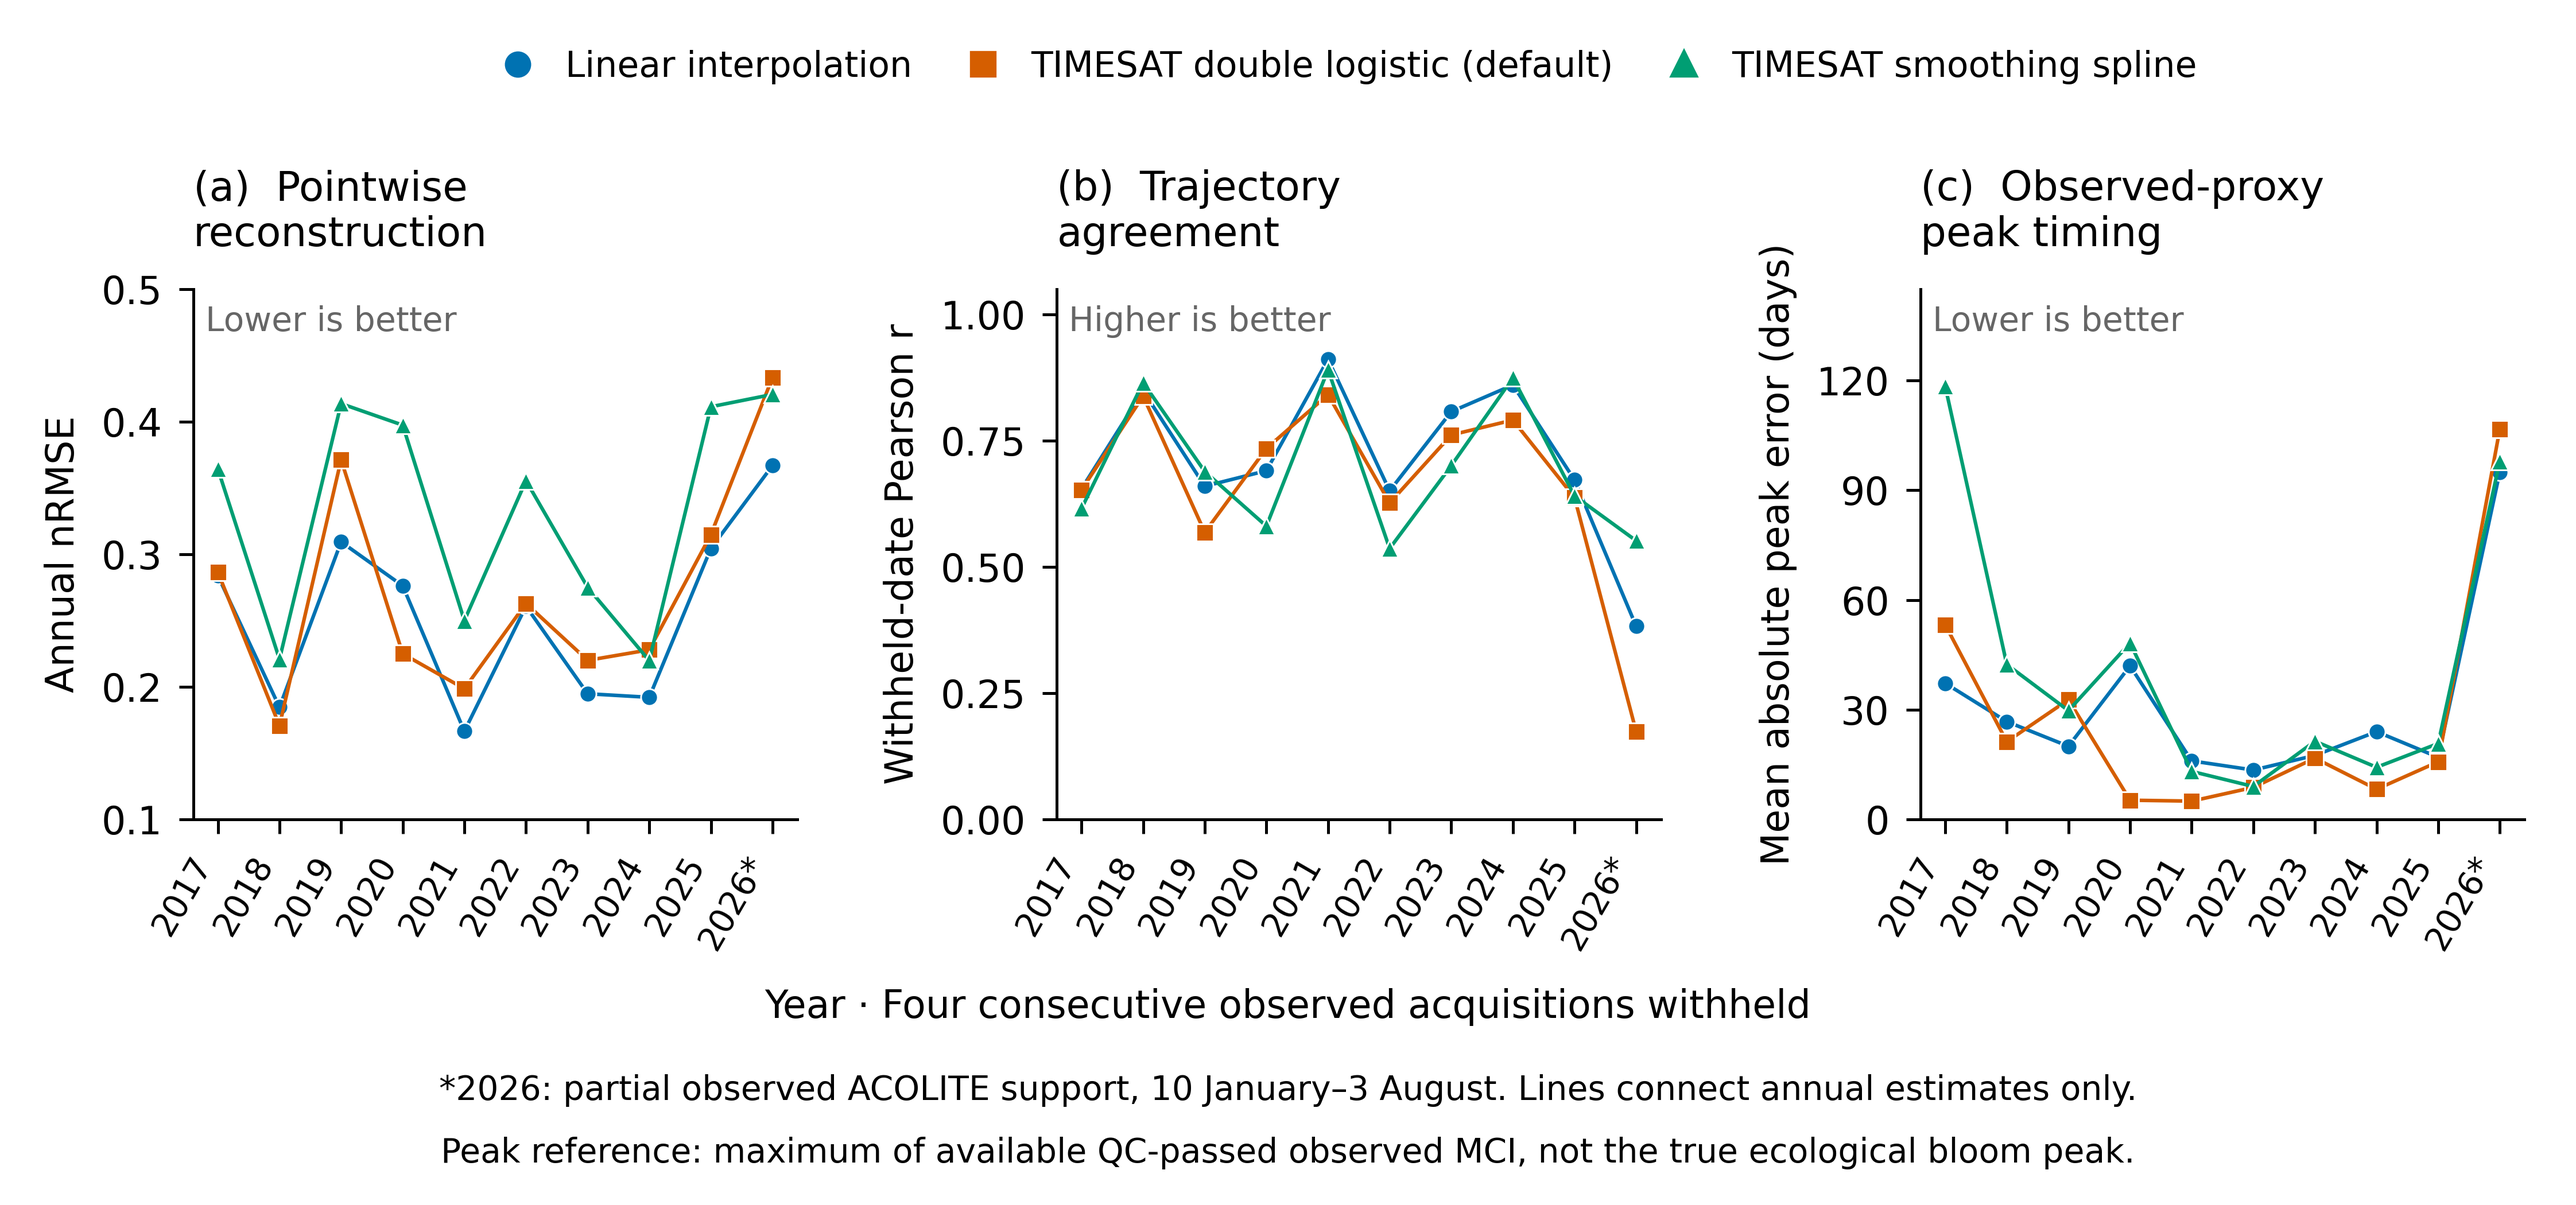
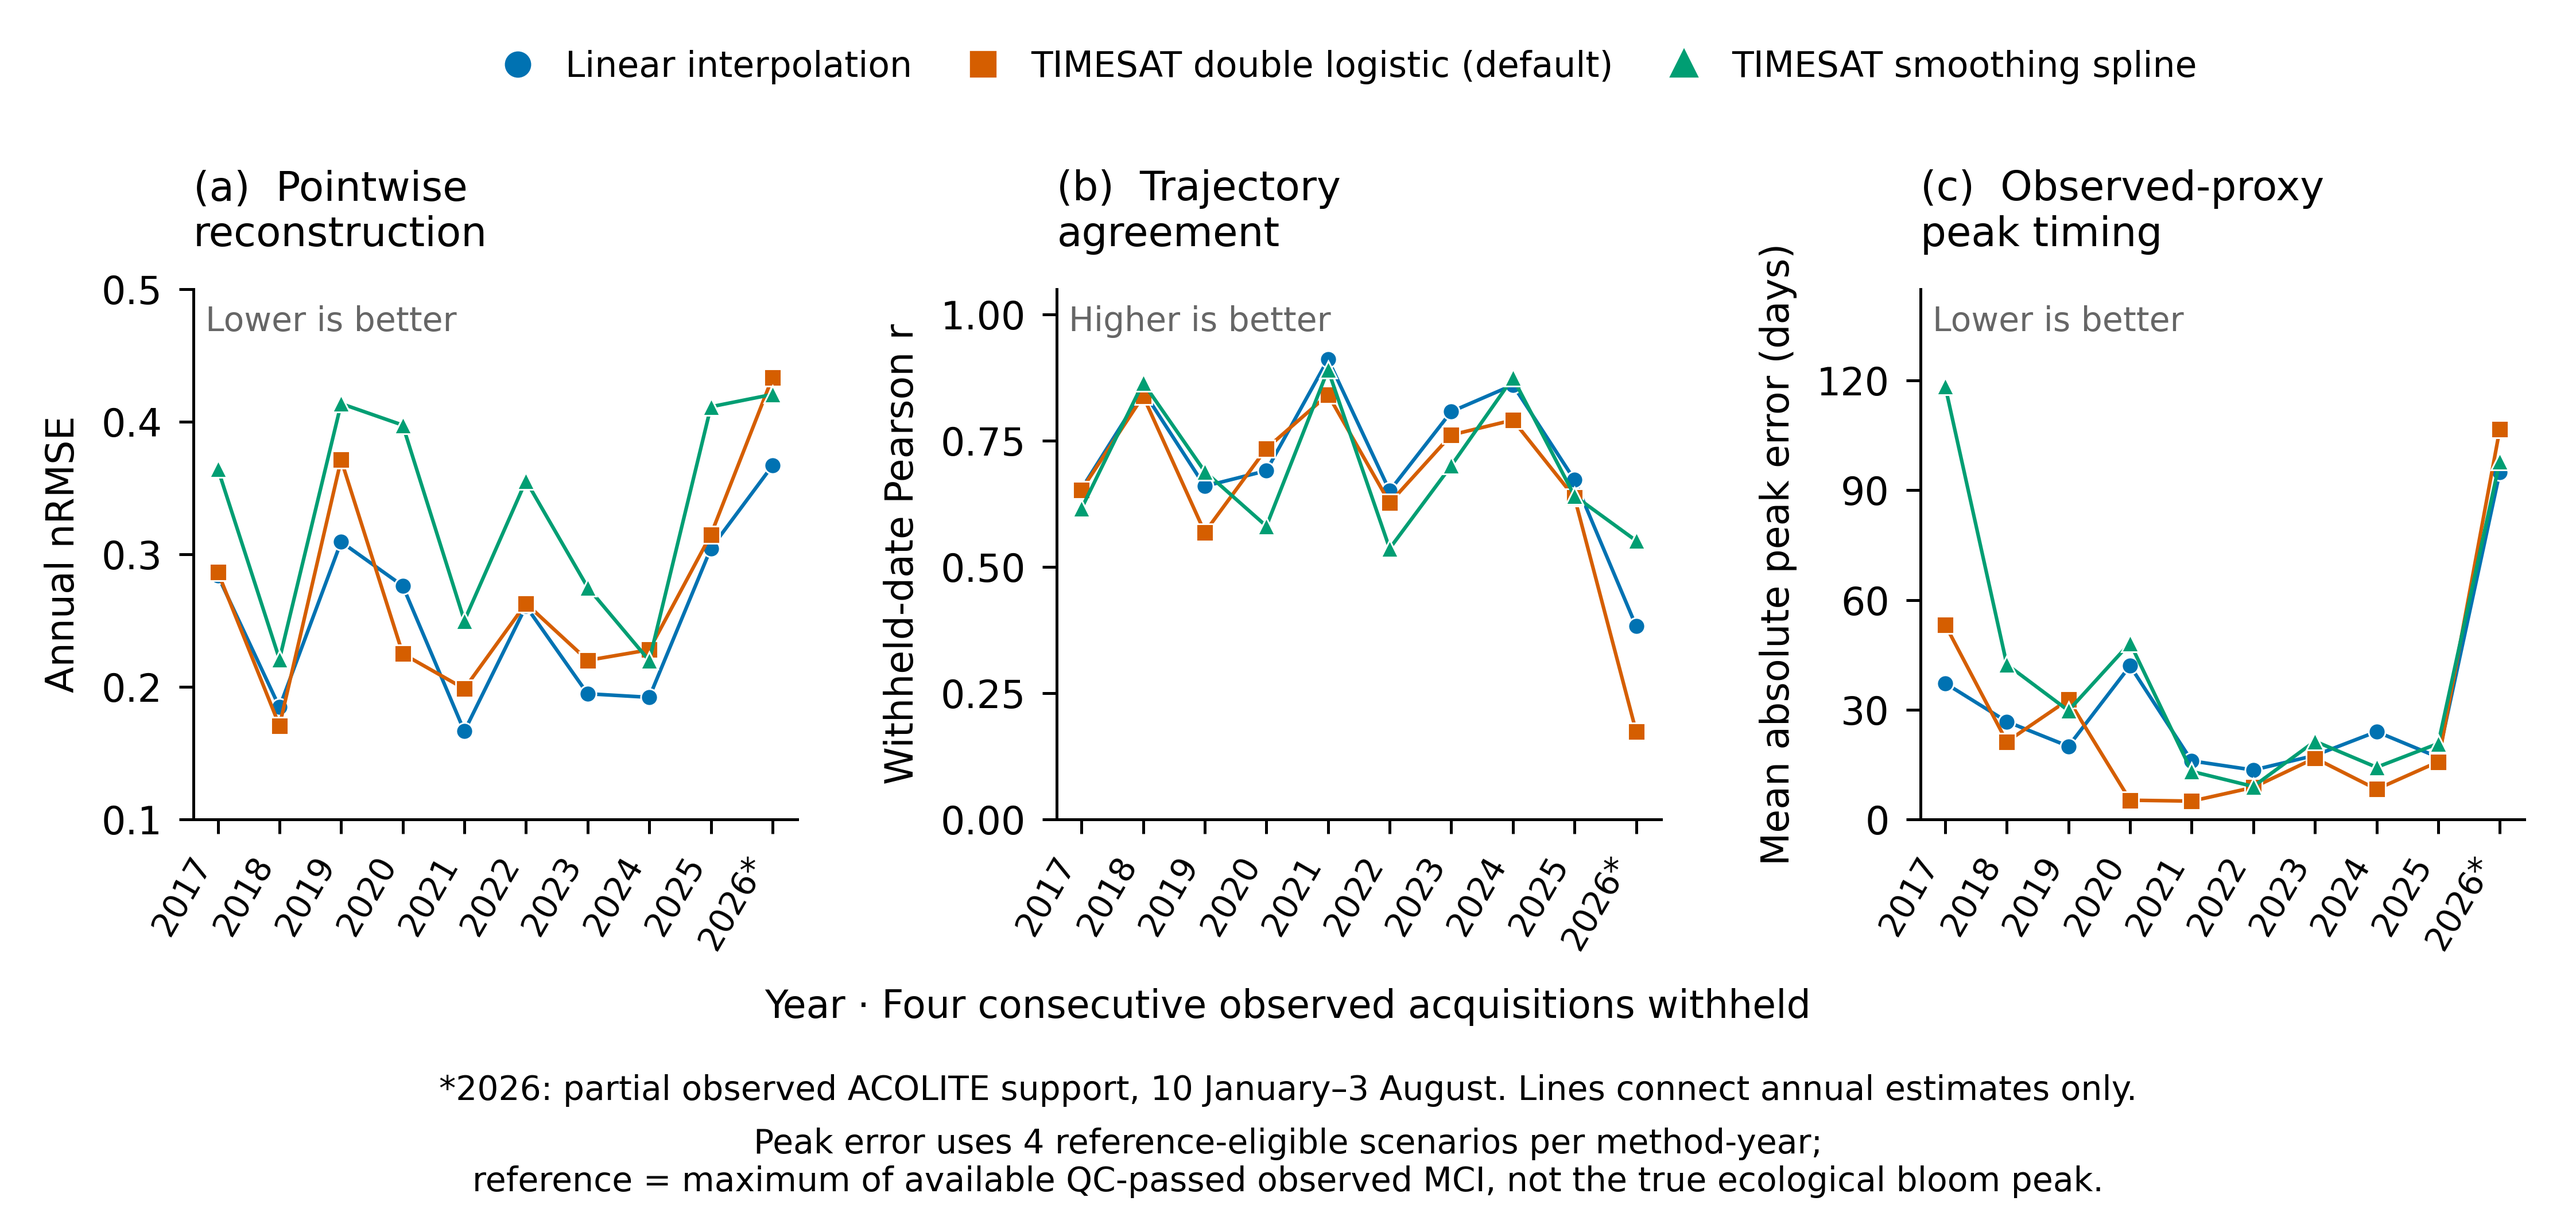
polish figure 5 peak denominator note

Changed region(s): [[0.1872, 0.9286, 0.8111, 0.9905]]

diff --git a/scripts/46_plot_vombsjon_annual_heterogeneity.py b/scripts/46_plot_vombsjon_annual_heterogeneity.py
@@ -135,7 +135,7 @@ def main() -> int:
                ncol=3, frameon=False, fontsize=7.4, columnspacing=1.0, handletextpad=0.35)
     fig.text(0.5, 0.155, "Year · Four consecutive observed acquisitions withheld", ha="center", fontsize=8)
     fig.text(0.5, 0.087, "*2026: partial observed ACOLITE support, 10 January–3 August. Lines connect annual estimates only.", ha="center", fontsize=7)
-    fig.text(0.5, 0.035, "Peak reference: maximum of available QC-passed observed MCI, not the true ecological bloom peak.", ha="center", fontsize=7)
+    fig.text(0.5, 0.035, "Peak error uses 4 reference-eligible scenarios per method-year;\nreference = maximum of available QC-passed observed MCI, not the true ecological bloom peak.", ha="center", va="center", fontsize=7)
     require(verified + len(unavailable) == 90, "Plot availability count mismatch")
     STEM.parent.mkdir(parents=True, exist_ok=True)
     pdf, png, table, report = (STEM.with_suffix(s) for s in (".pdf", ".png", ".csv", ".md"))
@@ -154,7 +154,7 @@ def main() -> int:
         f"Runtime: Python {sys.version.split()[0]}; Matplotlib {matplotlib.__version__}.", "",
         "## Manuscript caption", "",
         "Annual heterogeneity of locked ACOLITE MCI reconstruction under withholding of four consecutive observed acquisitions: (a) annual nRMSE, (b) withheld-date trajectory Pearson r, and (c) mean absolute observed-proxy peak timing error in calendar days. All points are the stored annual estimates for the three primary methods; no new uncertainty intervals are added. Thin lines are visual connections between annual estimates, not continuous temporal trajectories. All eligible years from 2017 through 2026 are retained, including 2018 and 2020. The asterisk marks partial observed ACOLITE support in 2026, from 10 January to 3 August, rather than a complete annual season. Four acquisitions do not represent a fixed four-day gap.", "",
-        "Peak timing refers to the maximum of the available QC-passed observed MCI series within annual support, not the true ecological bloom peak. This is satellite-MCI reconstruction evidence, not field validation; it does not imply contemporaneous field–satellite validation in 2018. Default TIMESAT double logistic retains p_seapar=1 and the smoothing spline retains the Erken-selected p_smooth=10. nRMSE and absolute peak error are saved within-year scenario means; correlation uses the saved within-year median-collapsed withheld-date predictions. Annual peak-error availability and support are reported below; unavailable values, if present, remain missing without imputation or connecting across them.", "",
+        "Peak error uses 4 reference-eligible scenarios per method-year. Peak timing refers to the maximum of the available QC-passed observed MCI series within annual support, not the true ecological bloom peak. This is satellite-MCI reconstruction evidence, not field validation; it does not imply contemporaneous field–satellite validation in 2018. Default TIMESAT double logistic retains p_seapar=1 and the smoothing spline retains the Erken-selected p_smooth=10. nRMSE and absolute peak error are saved within-year scenario means; correlation uses the saved within-year median-collapsed withheld-date predictions. Annual peak-error availability and support are reported below; unavailable values, if present, remain missing without imputation or connecting across them.", "",
         "## Validation and sources", "",
         f"PASS: {verified} plotted estimates exactly match committed annual-summary values, checked also against Matplotlib coordinates. All 90 expected records are retained. Unavailable annual values: {len(unavailable)}. CSV preserves every selected source decimal string and denominator. Source bytes match both Git and the frozen manifest. Only ACOLITE, consecutive four-acquisition withholding and the three frozen primary methods are selected. Annual scenario totals agree with eligibility; all ten years are eligible. The 2026 support endpoints are explicitly checked. No source table, scientific result, configuration, freeze or execution specification is written by this script.", ""]
     for name, digest in HASHES.items():

diff --git a/manuscript/figures/figure_05_vombsjon_annual_heterogeneity.md b/manuscript/figures/figure_05_vombsjon_annual_heterogeneity.md
@@ -2,14 +2,14 @@
 
 Figure production only; no reconstruction, metric, normalization, aggregation, correlation, confidence interval or statistical test was recomputed.
 
-Source commit: `3743320302f5423ec3ad32a3562161dab579d58a`. Script: [46_plot_vombsjon_annual_heterogeneity.py](../../scripts/46_plot_vombsjon_annual_heterogeneity.py).
+Source commit: `08ff2775f06dbe70161dddfd1e3eb61bd297b57e`. Script: [46_plot_vombsjon_annual_heterogeneity.py](../../scripts/46_plot_vombsjon_annual_heterogeneity.py).
 Runtime: Python 3.12.14; Matplotlib 3.10.8.
 
 ## Manuscript caption
 
 Annual heterogeneity of locked ACOLITE MCI reconstruction under withholding of four consecutive observed acquisitions: (a) annual nRMSE, (b) withheld-date trajectory Pearson r, and (c) mean absolute observed-proxy peak timing error in calendar days. All points are the stored annual estimates for the three primary methods; no new uncertainty intervals are added. Thin lines are visual connections between annual estimates, not continuous temporal trajectories. All eligible years from 2017 through 2026 are retained, including 2018 and 2020. The asterisk marks partial observed ACOLITE support in 2026, from 10 January to 3 August, rather than a complete annual season. Four acquisitions do not represent a fixed four-day gap.
 
-Peak timing refers to the maximum of the available QC-passed observed MCI series within annual support, not the true ecological bloom peak. This is satellite-MCI reconstruction evidence, not field validation; it does not imply contemporaneous field–satellite validation in 2018. Default TIMESAT double logistic retains p_seapar=1 and the smoothing spline retains the Erken-selected p_smooth=10. nRMSE and absolute peak error are saved within-year scenario means; correlation uses the saved within-year median-collapsed withheld-date predictions. Annual peak-error availability and support are reported below; unavailable values, if present, remain missing without imputation or connecting across them.
+Peak error uses 4 reference-eligible scenarios per method-year. Peak timing refers to the maximum of the available QC-passed observed MCI series within annual support, not the true ecological bloom peak. This is satellite-MCI reconstruction evidence, not field validation; it does not imply contemporaneous field–satellite validation in 2018. Default TIMESAT double logistic retains p_seapar=1 and the smoothing spline retains the Erken-selected p_smooth=10. nRMSE and absolute peak error are saved within-year scenario means; correlation uses the saved within-year median-collapsed withheld-date predictions. Annual peak-error availability and support are reported below; unavailable values, if present, remain missing without imputation or connecting across them.
 
 ## Validation and sources
 
@@ -39,8 +39,8 @@ Dates are observed annual support, not assertions of full-year coverage. Scenari
 
 ## Output SHA256
 
[5 lines of base64/hex data omitted]
 
 ## Exact plotted values
